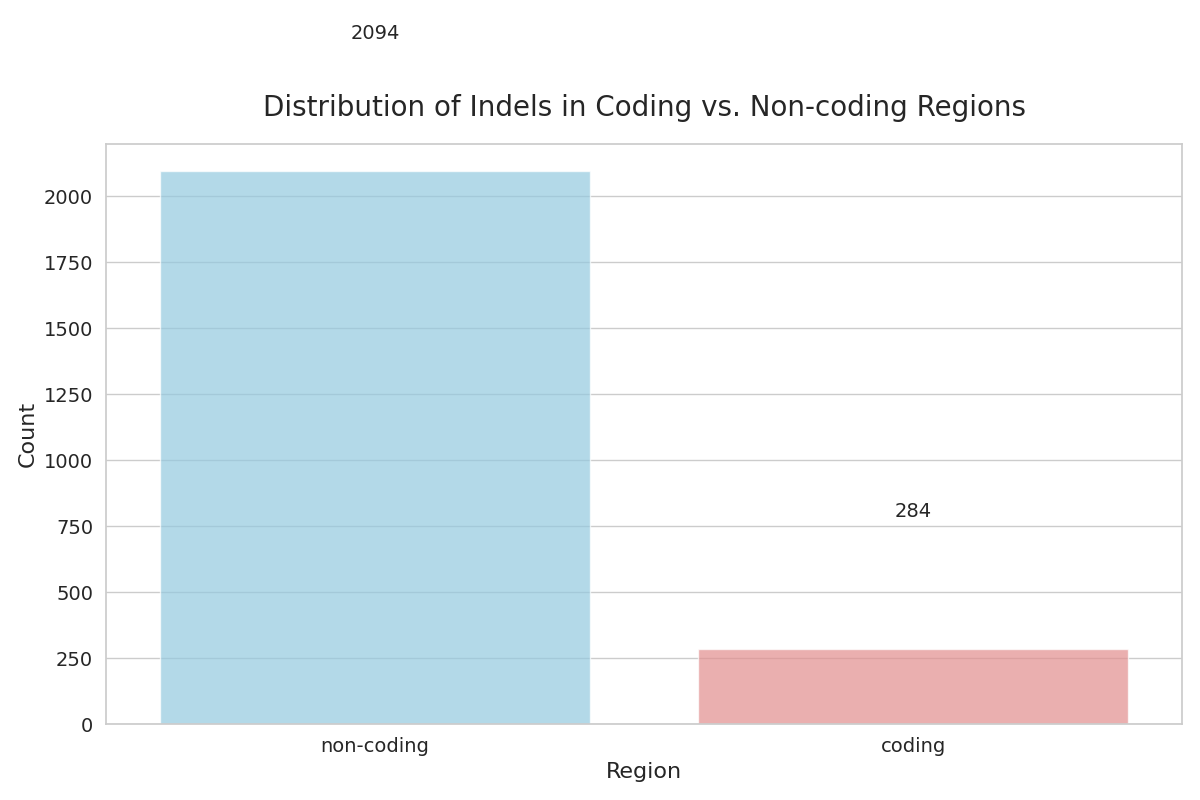
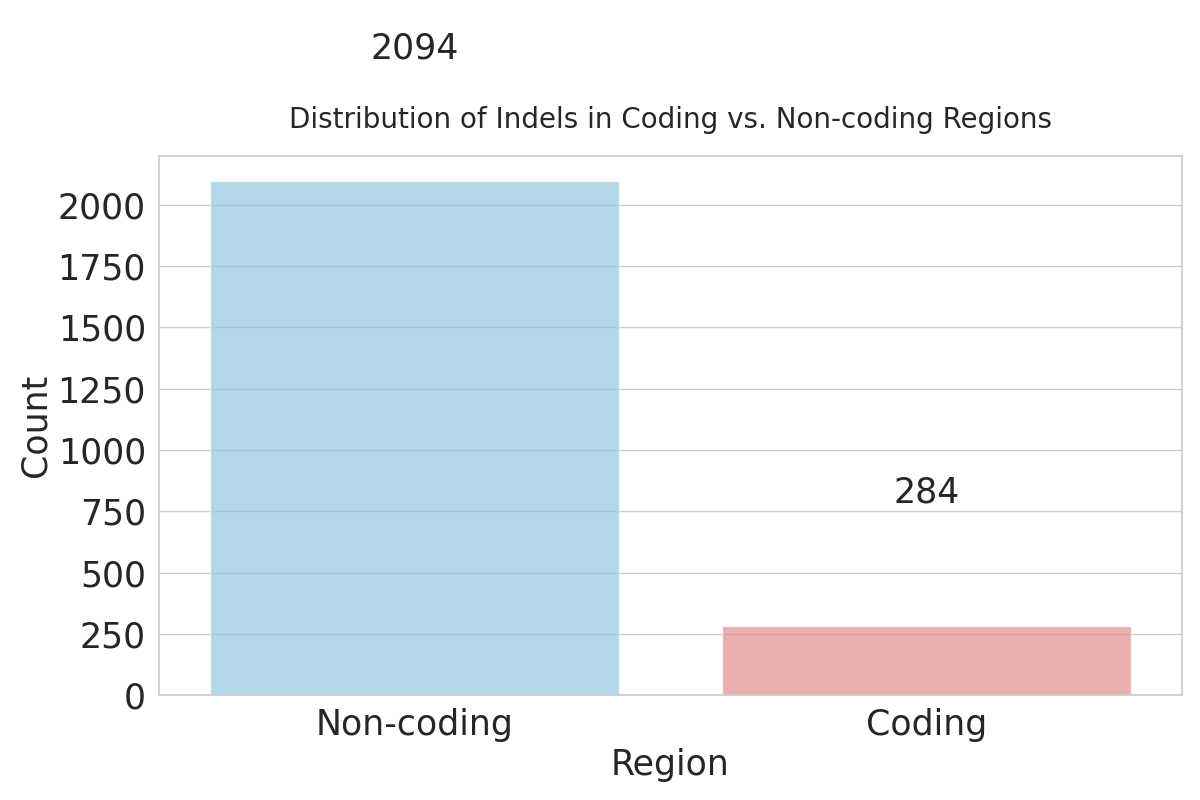
amended analysis

diff --git a/analysis/Coding_vs_non_coding_indel_distribution.py b/analysis/Coding_vs_non_coding_indel_distribution.py
@@ -33,9 +33,9 @@ def analyze_coding_vs_noncoding(df, output_dir, db_name):
         'splice_acceptor_variant', 'intron_variant', 'intergenic_variant'
     ]
     
-    df['region'] = df['consequences'].apply(lambda x: 'coding' if any(term in x for term in coding_terms) else 'non-coding')
+    df['Region'] = df['consequences'].apply(lambda x: 'Coding' if any(term in x for term in coding_terms) else 'Non-coding')
     
-    region_counts = df['region'].value_counts()
+    region_counts = df['Region'].value_counts()
     
     # Plot the distribution of indels in coding vs. non-coding regions
     sns.set(style="whitegrid")
@@ -43,13 +43,13 @@ def analyze_coding_vs_noncoding(df, output_dir, db_name):
     
     sns.barplot(x=region_counts.index, y=region_counts.values, palette=['skyblue', 'lightcoral'], alpha=0.7)
     plt.title('Distribution of Indels in Coding vs. Non-coding Regions', fontsize=20, pad=20)
-    plt.xlabel('Region', fontsize=16)
-    plt.ylabel('Count', fontsize=16)
-    plt.xticks(fontsize=14)
-    plt.yticks(fontsize=14)
+    plt.xlabel('Region', fontsize=25)
+    plt.ylabel('Count', fontsize=25)
+    plt.xticks(fontsize=25)
+    plt.yticks(fontsize=25)
     
     for i, count in enumerate(region_counts.values):
-        plt.text(i, count + 500, str(count), ha='center', fontsize=14)
+        plt.text(i, count + 500, str(count), ha='center', fontsize=25)
     
     plt.tight_layout()
     plt.savefig(f"{output_dir}/indel_{db_name}_distribution_coding_vs_noncoding.png")

diff --git a/analysis/rare_indels.py b/analysis/rare_indels.py
@@ -45,22 +45,26 @@ def analyze_rare_indels(rare_indels, output_dir, db_name):
 
     gene_counts = rare_indels['genes'].value_counts()
 
-    top_genes = gene_counts.head(20)
+    top_genes = gene_counts.head(8)
 
     plt.figure(figsize=(18, 10))
     sns.barplot(x=top_genes.index, y=top_genes.values, palette="viridis")
-    plt.title(f'Top 20 Genes Most Frequently Affected by Rare Indels in {db_name}', fontsize=22)
-    plt.xlabel('Gene', fontsize=20)
-    plt.ylabel('Count', fontsize=20)
-    plt.xticks(rotation=45, ha='right', fontsize=18)
-    plt.yticks(fontsize=18)
+    plt.title(f'Genes Most Frequently Affected by Rare Indels in GRCh38', fontsize=30)
+    plt.xlabel('Gene', fontsize=30)
+    plt.ylabel('Count', fontsize=30)
+    plt.xticks(rotation=45, ha='right', fontsize=30)
+    plt.yticks(fontsize=30)
     
     table_data = top_genes.reset_index().values
     cell_text = []
     for row in table_data:
         cell_text.append([row[0], int(row[1])])
 
-    plt.table(cellText=cell_text, colLabels=['Gene', 'Count'], cellLoc='center', loc='right', bbox=[1.05, 0, 0.3, 1], edges='horizontal', fontsize=16)
+    table = plt.table(cellText=cell_text, colLabels=['Gene', 'Count'], cellLoc='center', loc='right', bbox=[1.05, 0, 0.3, 1], edges='horizontal')
+
+    # Set font size for the table
+    table.auto_set_font_size(False)
+    table.set_fontsize(17)  
 
     plt.tight_layout()
     plt.savefig(f"{output_dir}/rare_indels_{db_name}_gene_counts.png", bbox_inches='tight')
